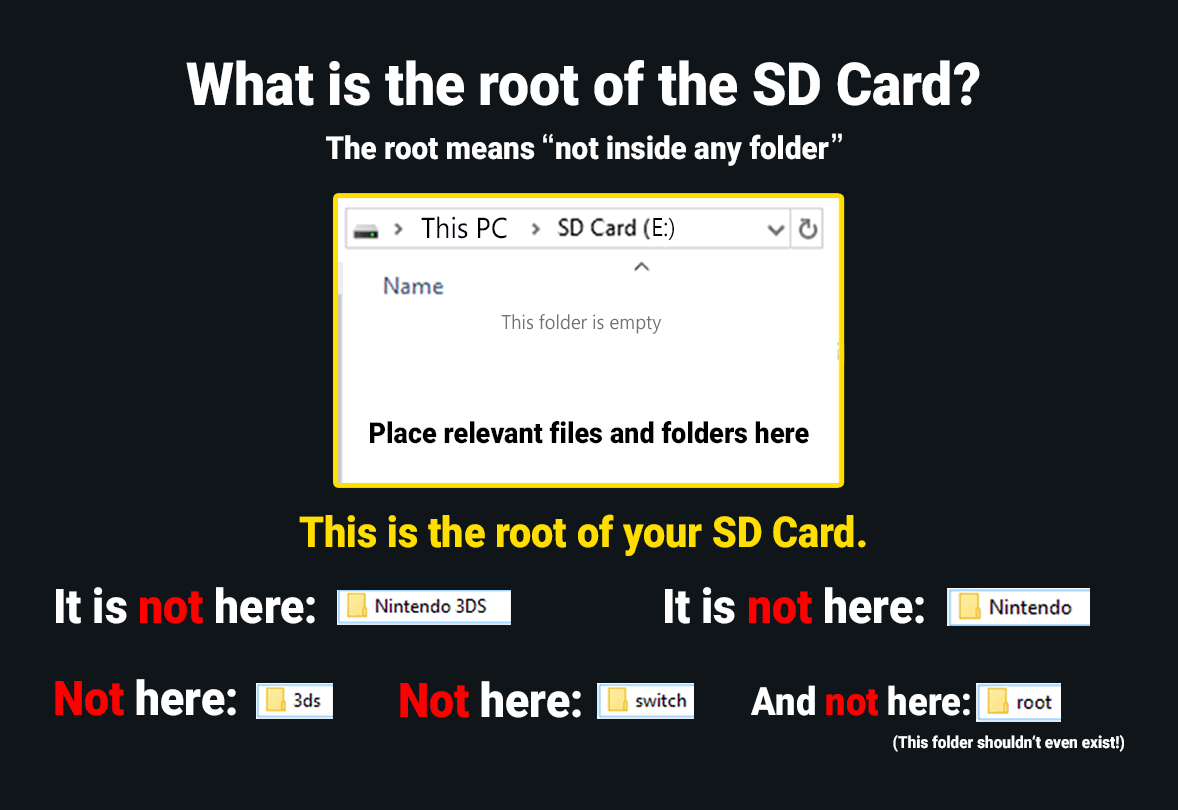
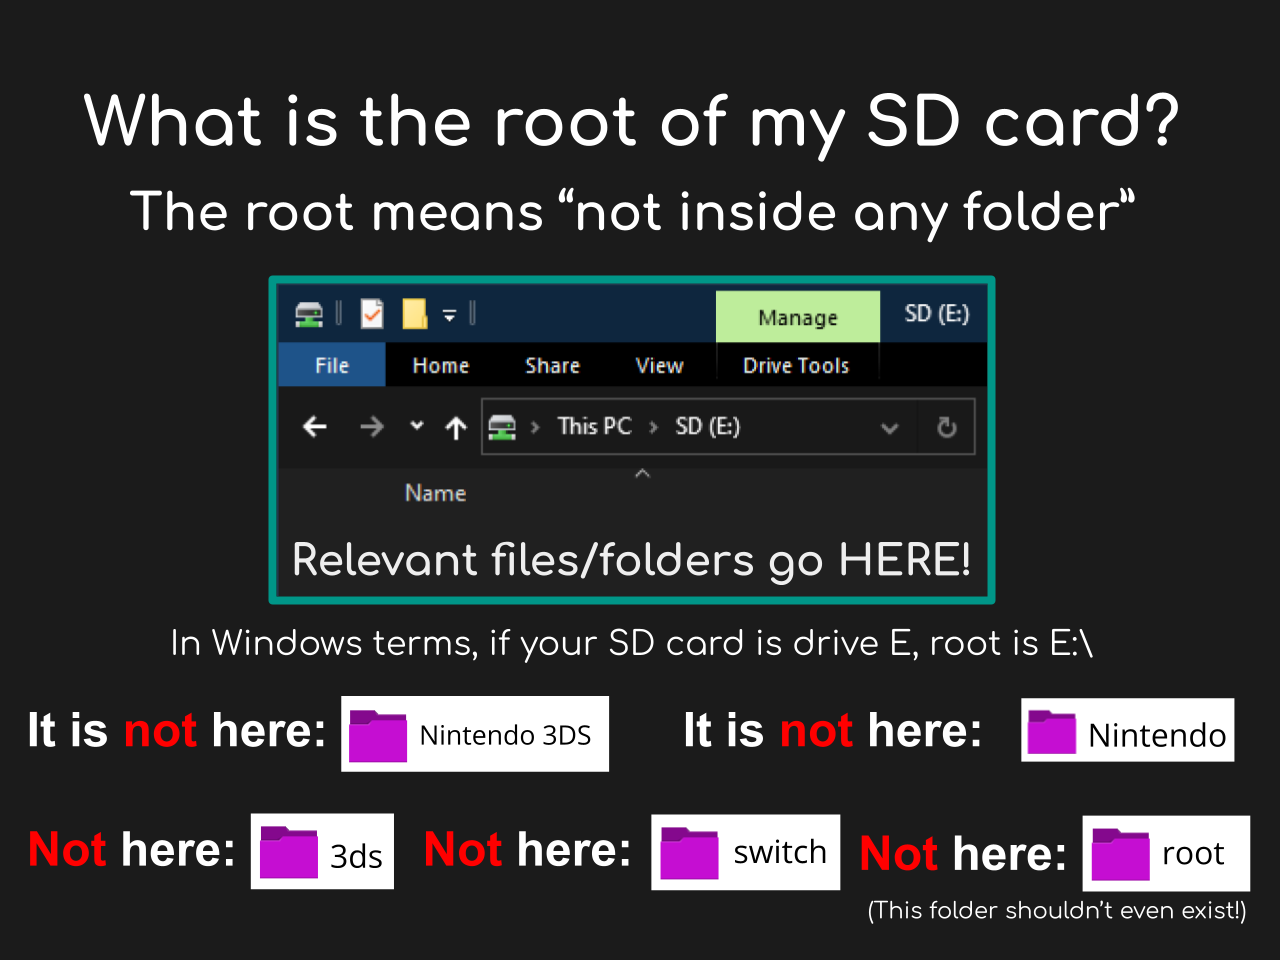
no one's around to help
update root.png
update switch guide:
updating CFW section
switch update compatibility chart

diff --git a/switch-guide.md b/switch-guide.md
@@ -25,6 +25,11 @@ description: A guide for getting sysCFW Atmosphere
   - [Switch NAND](#switch-nand)
   - [Switch keys](#switch-keys)
 - [Launching CFW](#launching-cfw)
+- [Updating CFW](#updating-cfw)
+  - [**Updating Atmosphere**](#updating-atmosphere)
+  - [**Updating Hekate**](#updating-hekate)
+  - [**Updating Firmware**](#updating-firmware)
+    - [What constitutes an update?](#what-constitutes-an-update)
 
 # Why shouldn't I use emuNAND?
 
@@ -206,9 +211,9 @@ I might show how to inject on other platforms in the future, but for now, if you
 
 4. *Insert* your Jig into the right joy-con slot, making sure the pins aren't visible, and then press the Power button and VOL+ at the same time. Your Switch screen should stay black; if it turns on normally, retry from step 2.
 
-<img align="right" src="./assets/images/hbrew/rcm.png">
-
 5. If you see RCM O.K in the bottom left of Tegra, then you know your switch is in RCM. This is where you can actually inject a payload!!
+
+<img align="right" src="./assets/images/hbrew/rcm.png">
 
 Once your switch is in RCM, you can inject payloads. We'll be injecting Hekate.
 
@@ -231,6 +236,8 @@ You ARE going to need at**least** 32gb of free space to dump your Switch NAND (u
 3. Close this screen then select `eMMC RAW GPP`. It should take some time, since the Switch's rawnand.bin is quite large. (it'll take even longer if you're dumping it 4gb at a time). This can take anywhere from 15minutes up to an hour and a half, all depends on the speed of your SD card.
 4. Tap on Close twice to return to the tools menu, and copy the `backup` folder to your computer (or someplace safe). Once you got your `backup` folder copied someplace else, you can delete the `backup` folder on your SD. To save a bit of space, you can compress the backup folder in a .zip, .7z, or something similar. 
 
+I'd recommend that whenever a major update comes out for the Switch, that you also redump your NAND. Creating a backup of 10.0.0 and trying to restore it on 13.2.1 would either fail, or downgrade your switch (which can cause trouble down the line). Refer here for what's considered a major update.
+
 ## Switch keys
 
 Your Switch keys aren't that large, so you don't have to worry about spending another hour backing them up.
@@ -249,3 +256,45 @@ Now that you've finished those steps, you're basically finished at this point! A
 To launch into CFW, on the Hekate `Home` tab, select `Launch`, then select `CFW (SYSNAND)`. If you get an error like <span style="color:yellow">No main boot entries found...</span>, then you haven't downloaded the hekate_ipl.ini and put it in your bootloader folder. If this is the case, download the [hekate_ipl.ini](assets/hekate_ipl.ini) config file (open the link, right click > save page as)
 
 But if you don't get that error, then you're in CFW! You ARE gonna have to inject a payload everytime you want to enter CFW though, so remember that as soon as you turn off your switch you'll be back in normie territory.
+
+# Updating CFW
+
+When a new system update is released, there's 3 things that need updating: Atmosphere, Hekate, and your firmware. 
+
+## **Updating Atmosphere**
+
+1. Turn off your Switch and put the SD card in your computer
+2. Download the latest release of Atmosphere (the `atmosphere-(version)-master-(version)+hbl-(version)+hbmenu-(version).zip`)
+3. Copy *the contents* of the Atmosphere.zip to your SD card
+4. (If Hekate needs updating, follow the next section)
+5. Put your SD card in your switch and launch CFW
+
+## **Updating Hekate**
+
+1. Turn off your Switch and put the SD card in your computer
+2. Download the latest release of Hekate (the `hekate_ctcaer_(version).zip`)
+3. Copy the `bootloader` folder from the Hekate.zip to your SD card. If asked to overwrite or merge files, select yes.
+4. Put your SD card in your switch and launch Hekate
+5. Go to the Options tab of Hekate in the top right. If it isn't already, enable `Update Reboot 2 Payload`, then `Save Options`.
+6. Launch CFW
+
+## **Updating Firmware**
+
+Before updating your firmware, first check that Atmosphere *and* Hekate support the firmware you're updating to. The releases page on both will tell you the latest version that's supported. 
+
+<p align="center">
+  <img src="./assets/images/hbrew/hos_support.png"/>
+</p>
+
+### What constitutes an update?
+
+Surprisingly, not all *firmware* updates require Atmosphere and Hekate to update as well. There are 3 types of updates: Major, Minor, and Patches.<br>Major updates will almost always require Atmosphere and Hekate to update.<br>Minor won't break compatability as often, but the chance is still there.<br>It is extremely unlikely for patch updates to break compatability.
+
+It's great to know that you *can* update to a patch or minor update without Atmosphere, but that doesn't mean you should. It might bring errors, and no one likes those. And you don't wanna be the person to find out the minor update prevents booting. So you should wait for official word from CTCaer or SciresM saying it's okay to update the firmware, or if you'll have to wait.
+
+<p align="center">
+  <img src="./assets/images/misc/switch_update_compatability.png"/>
+</p>
+
+
+<!-- line 300!! -->

diff --git a/pages/misc/SEALS.md b/pages/misc/SEALS.md
@@ -211,3 +211,9 @@ Tarou
 In
 
 ACNH
+
+Heading level 1
+===============
+
+Heading level 2
+---------------
